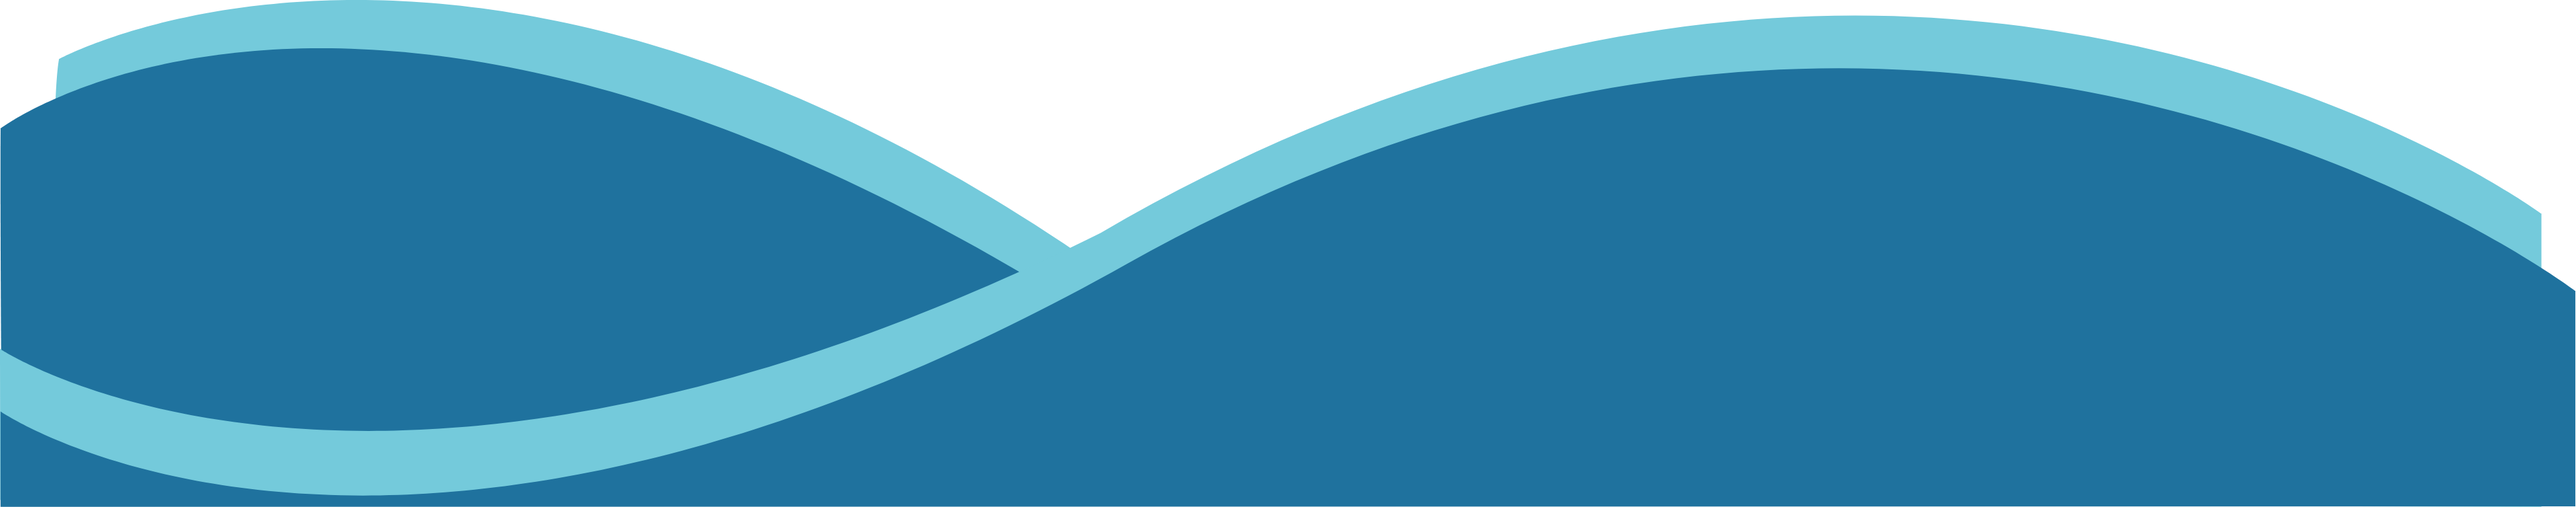
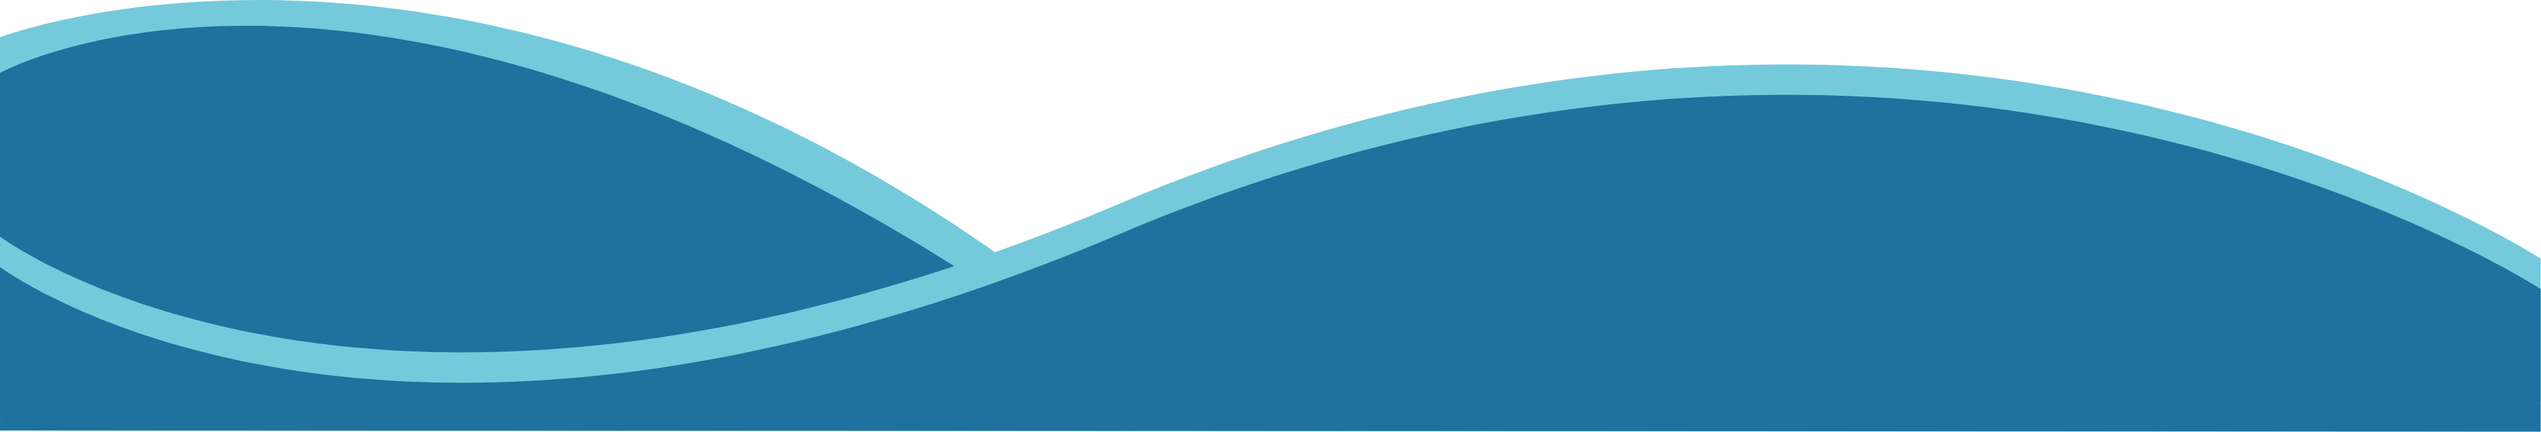
Cambios en footer, inicio de la parte del home

Changed region(s): [[0.0, 0.0, 1.0, 1.0], [0.0, 0.5505, 0.6561, 1.0], [0.2499, 0.7645, 0.2812, 0.7951]]

diff --git a/inc/sass/layout/_footer.scss b/inc/sass/layout/_footer.scss
@@ -1,11 +1,15 @@
-.frame_footer {
+.frame_footer {    
     img {
         width: 100%;
     }
 }
 
-.footer_links{
+.page-footer{
     background-color: $color_principal;
+    color: $font_color_light;
+    a {
+        color: $font_color_light;
+    }
 }
 
 .footer-copyright{

diff --git a/inc/css/main.css b/inc/css/main.css
@@ -13,8 +13,12 @@
   width: 100%;
 }
 
-.footer_links {
+.page-footer {
   background-color: #1F729E;
+  color: #fff;
+}
+.page-footer a {
+  color: #fff;
 }
 
 .footer-copyright {

diff --git a/inc/sass/utilities/_variables.scss b/inc/sass/utilities/_variables.scss
@@ -2,7 +2,6 @@ $color_principal: #1F729E;
 $color_secundary: #4B4848;
 $color_base: #fff;
 
-
 $font_color_light: #fff;
 $font_color_dark: blue;
 $font_color_title: #1F729E;

diff --git a/template/home.php b/template/home.php
@@ -2,21 +2,18 @@
 <div class="container-fluid main-container">
 
     <!-- Pantalla Inicial -->
-    
-        <div class="row main-screen">
-        </div>
-        <div class="row frame">
-            <img src="img/layout/frame1.png">
-        </div>
-    
+
+    <div class="row main-screen">
+    </div>
+    <div class="row frame">
+        <img src="img/layout/frame1.png">
+    </div>
+
     <!-- Fin de Pantalla Inicial -->
 
 
     <!-- INICIO DEL HOME -->
-    <div class="row">
-    <div class="col-xs-12 col-sm-12 col-md-12 ">
-        Quiénes somos?
-    </div>
+    <div class="row">        
         <div class="col-xs-12 col-sm-12 col-md-4 ">
         </div>
         <div class="col-xs-12 col-sm-12 col-md-5 ">
@@ -32,8 +29,19 @@
     <!-- FIN DEL HOME -->
 
 
-    <!-- INICIO DEL HOME -->
-    <div>
+   <!-- INICIO DEL HOME -->
+   <div class="row">        
+        <div class="col-xs-12 col-sm-12 col-md-4 ">
+        </div>
+        <div class="col-xs-12 col-sm-12 col-md-5 ">
+            <div class="row">
+                <div class="col-xs-12 col-sm-12 col-md-4 "> hola </div>
+                <div class="col-xs-12 col-sm-12 col-md-4 "> hola</div>
+                <div class="col-xs-12 col-sm-12 col-md-4 "> hola</div>
+            </div>
+        </div>
+        <div class="col-xs-12 col-sm-12 col-md-3">
+        </div>
     </div>
     <!-- FIN DEL HOME -->
 

diff --git a/template/footer.php b/template/footer.php
@@ -1,9 +1,8 @@
 <!-- Footer -->
-
-<footer class="page-footer font-small stylish-color-dark pt-4">
-  <div class="frame_footer">
+<div class="frame_footer">
     <img src="img/layout/frame_footer.png">
   </div>
+<footer class="page-footer font-small stylish-color-dark pt-4">  
   <!-- Footer Links -->
   <div class="footer_links container-fluid text-center text-md-left">
 
